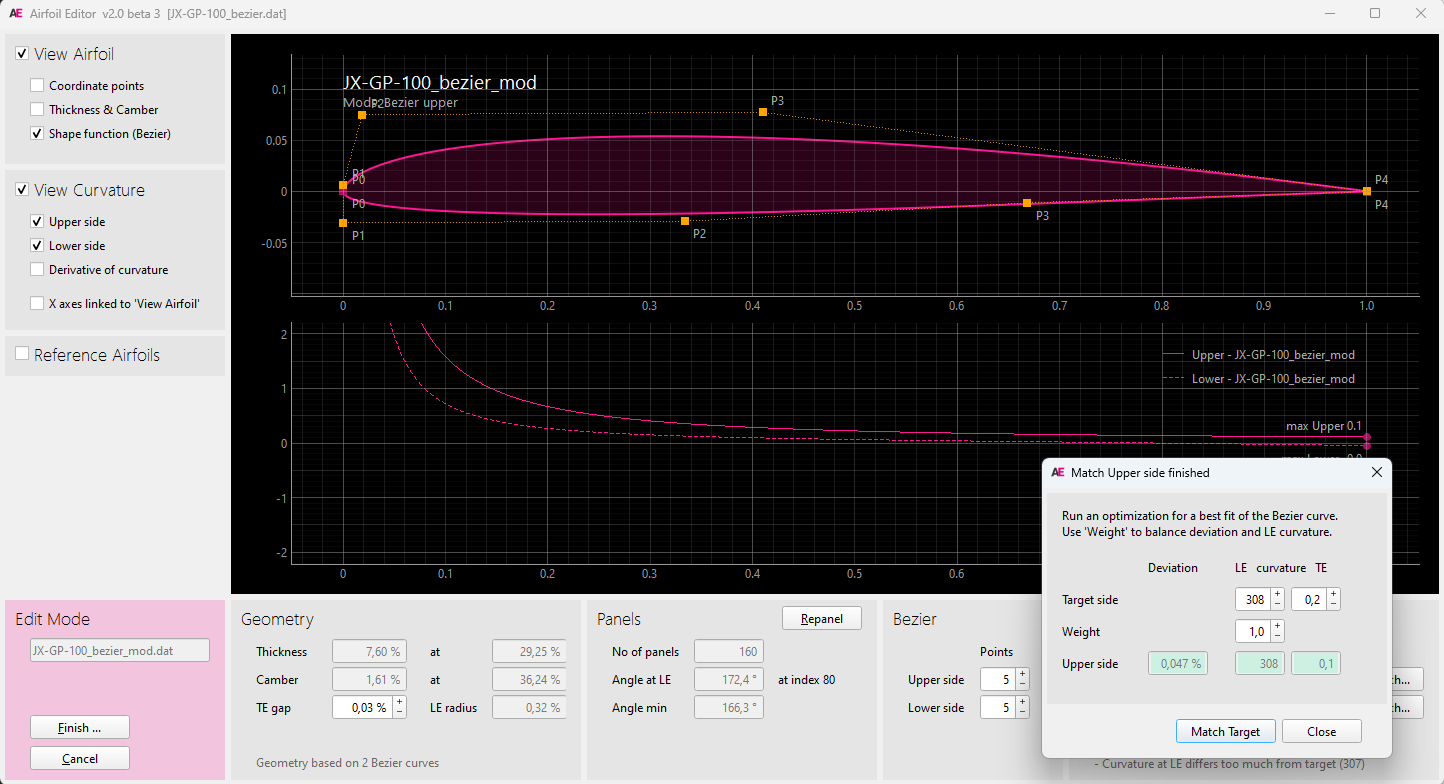
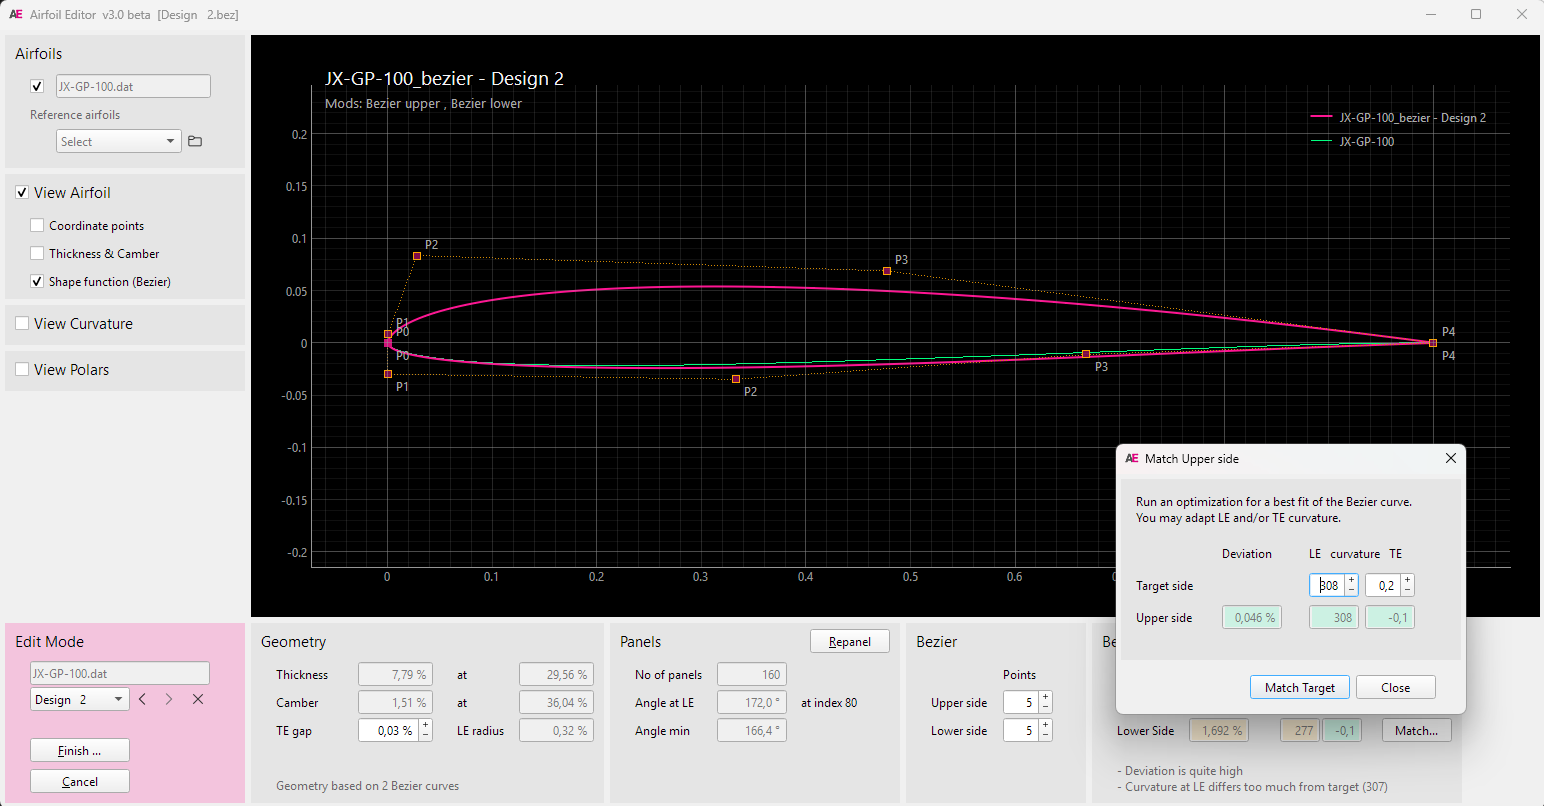
preparing v3.0

diff --git a/modules/model/xo2_driver.py b/modules/model/xo2_driver.py
@@ -11,6 +11,7 @@ the path to program location location must be set
 
 
 import os
+from tempfile       import NamedTemporaryFile
 from subprocess     import Popen, run, CREATE_NEW_CONSOLE, PIPE, STARTUPINFO, STARTF_USESHOWWINDOW, CREATE_NO_WINDOW
 from glob           import glob
 from io             import StringIO
@@ -36,7 +37,7 @@ SW_MINIMIZE = 6
 EXE_DIR_WIN    = 'assets/windows'                  # directory of exe files 
 EXE_DIR_UNIX   = 'assets/linux'                    
 
-TMP_INPUT_NAME = 'tmpInput'                         # temporary input file (~1 will be appended)
+TMP_INPUT_NAME = 'tmp~'                             # temporary input file (~1 will be appended)
 TMP_INPUT_EXT  = '.inp'
 
 #------- Helper function -----------------------------------------#
@@ -767,50 +768,43 @@ class Worker (X_Program):
         &xfoil_run_options
             ncrit = 7.0
         /
-        :return: filename of input file  """
+        :return: pathFilename of input file  """
+
+        tmpFilePath = None
 
         airfoilPath, airfoilFileName = os.path.split(airfoilPathFileName)
 
-        # find a tmp filename not used up to now 
+        # create tmp input file 
 
-        tmpFilePath = os.path.join (airfoilPath, TMP_INPUT_NAME + TMP_INPUT_EXT)
-        i = 0 
-        while os.path.isfile (tmpFilePath):                                 # find a non existing tmp name 
-            i += 1
-            tmpFilePath = os.path.join (airfoilPath, f"{TMP_INPUT_NAME}~{i}{TMP_INPUT_EXT}")
-    
-        stream = open(tmpFilePath, 'w+')
+        with NamedTemporaryFile(mode="w", delete=False, dir=airfoilPath, prefix=TMP_INPUT_NAME, suffix=TMP_INPUT_EXT) as tmp:
 
-        # generate tmp in dir of airfoil 
+            tmp.write ("&polar_generation\n")
+            tmp.write ("  type_of_polar = %d\n" % polarType)  
+            tmp.write ("  polar_reynolds  = %s\n" % (', '.join(str(e) for e in reNumbers))) 
+            if max(maNumbers) > 0.0: 
+                tmp.write ("  polar_mach  = %s\n" % (', '.join(str(e) for e in maNumbers))) 
+            if autoRange:
+                tmp.write ("  auto_range = .true.\n") 
+                if valRange[2]:                                 # write only increment
+                    tmp.write ("  op_point_range = , , %.2f \n" % (valRange[2])) 
+            else:
+                if spec_al:  tmp.write ("  op_mode = 'spec-al'\n") 
+                else:        tmp.write ("  op_mode = 'spec-cl'\n") 
+                tmp.write ("  op_point_range = %.2f , %.2f , %.2f \n" % (valRange[0], valRange[1], valRange[2])) 
+            tmp.write ("/\n")
 
-        stream.write ("&polar_generation\n")
-        stream.write ("  type_of_polar = %d\n" % polarType)  
-        stream.write ("  polar_reynolds  = %s\n" % (', '.join(str(e) for e in reNumbers))) 
-        if max(maNumbers) > 0.0: 
-            stream.write ("  polar_mach  = %s\n" % (', '.join(str(e) for e in maNumbers))) 
-        if autoRange:
-            stream.write ("  auto_range = .true.\n") 
-            if valRange[2]:                                 # write only increment
-                stream.write ("  op_point_range = , , %.2f \n" % (valRange[2])) 
-        else:
-            if spec_al:  stream.write ("  op_mode = 'spec-al'\n") 
-            else:        stream.write ("  op_mode = 'spec-cl'\n") 
-            stream.write ("  op_point_range = %.2f , %.2f , %.2f \n" % (valRange[0], valRange[1], valRange[2])) 
-        stream.write ("/\n")
+            tmp.write ("&xfoil_run_options\n")
+            tmp.write ("  ncrit = %.1f\n" % ncrit)  
+            tmp.write ("/\n")
 
-        stream.write ("&xfoil_run_options\n")
-        stream.write ("  ncrit = %.1f\n" % ncrit)  
-        stream.write ("/\n")
+            if nPoints is not None: 
+                tmp.write ("&paneling_options\n")
+                tmp.write (f"  npoint = {int(nPoints)}\n")  
+                tmp.write ("/\n")
 
-        if nPoints is not None: 
-            stream.write ("&paneling_options\n")
-            stream.write (f"  npoint = {int(nPoints)}\n")  
-            stream.write ("/\n")
+            tmpFilePath = tmp.name
 
-        stream.close()
-        tmpFile = tmpFilePath 
-
-        return tmpFile              
+        return tmpFilePath              
 
 
 

diff --git a/AirfoilEditor.py b/AirfoilEditor.py
@@ -87,6 +87,7 @@ class App_Main (QMainWindow):
     sig_airfoils_ref_changed    = pyqtSignal()          # list of reference airfoils changed
     sig_bezier_changed          = pyqtSignal(Line.Type) # new bezier during match bezier 
     sig_panelling_changed       = pyqtSignal()          # new panelling
+    sig_blend_changed           = pyqtSignal()          # new (intermediate) blend 
     sig_polar_set_changed       = pyqtSignal()          # new polar sets attached to airfoil
 
     sig_enter_panelling         = pyqtSignal()          # starting panelling dialog
@@ -183,6 +184,7 @@ class App_Main (QMainWindow):
         self.sig_airfoil_target_changed.connect (self._diagram.on_target_changed)
         self.sig_bezier_changed.connect         (self._diagram.on_bezier_changed)
         self.sig_panelling_changed.connect      (self._diagram.on_airfoil_changed)
+        self.sig_blend_changed.connect          (self._diagram.on_airfoil_changed)
         self.sig_polar_set_changed.connect      (self._diagram.on_polar_set_changed)
         self.sig_airfoils_ref_changed.connect   (self._diagram.on_airfoils_ref_changed)
 
@@ -465,7 +467,7 @@ class App_Main (QMainWindow):
 
         dialog = Blend_Airfoil (self, self.airfoil(), self.airfoil_org)  
 
-        dialog.sig_airfoil_changed.connect (self.sig_airfoil_changed.emit)
+        dialog.sig_blend_changed.connect (self.sig_blend_changed.emit)
         dialog.sig_airfoil2_changed.connect (self.set_airfoil_target)
         dialog.exec()     
 

diff --git a/modules/airfoil_dialogs.py b/modules/airfoil_dialogs.py
@@ -178,10 +178,8 @@ class Blend_Airfoil (Dialog):
 
     name = "Blend Airfoil with ..."
 
-    sig_airfoil_changed    = pyqtSignal ()
+    sig_blend_changed      = pyqtSignal ()
     sig_airfoil2_changed   = pyqtSignal (Airfoil)
-
-    # ---- static members for external use 
 
 
     def __init__ (self, parent : QWidget, 
@@ -248,7 +246,7 @@ class Blend_Airfoil (Dialog):
         if self._airfoil2 is not None: 
             self._airfoil.geo._blend(self._airfoil1.geo, self._airfoil2.geo, 
                                      self._blendBy, ensure_fast=True)
-            self.sig_airfoil_changed.emit()
+            self.sig_blend_changed.emit()
 
 
     @property
@@ -266,7 +264,7 @@ class Blend_Airfoil (Dialog):
         if aAirfoil is not None: 
             self._airfoil.geo._blend(self._airfoil1.geo, self._airfoil2.geo, 
                                      self._blendBy, ensure_fast=True)
-            self.sig_airfoil_changed.emit()
+            self.sig_blend_changed.emit()
 
 
     @override

diff --git a/README.md b/README.md
@@ -39,60 +39,36 @@ For thickness and camber geometry operations the airfoil (spline) is splitted in
 
 The same approach is applied to move the highpoint of the upper and lower side of the airfoil which makes it possible to optimize the upper and lower side independently of each other.
 
-<figure>
-  <img src="images/Modify.png" alt="my alt text"/>
-  <figcaption><sub>The 'Edit Mode' of the Airfoil Editor allowing to change the geometry either by value or by moving the mouse helper points. Each change creates a new 'Design' variant which allows to browse through the changes made in this session. </sub></figcaption>
-</figure>
 
 
 ![Modify](images/Modify.png "Screenshot of Modifying Airfoil")
-<sub>The 'Edit Mode' of the Airfoil Editor allowing to change the geometry either by value or by moving the mouse helper points. Each change creates a new 'Design' variant which allows to browse through the changes made in this session. </sub>
-</p>
+<sub>The 'Edit Mode' of the `AirfoilEditor` to change the geometry either by value or by moving the mouse helper points. Each change creates a new 'Design' variant which allows to browse through the changes made in this session. </sub>
+<br></br>
 
-Repaneling is based on a modified cosine distribution of the airfoil points on the arc of the spline. This differs from the xfoil approach but the repanel shows 'nice' behavior in aero calculation. 
+Repaneling is based on a modified cosine distribution of the airfoil points on the arc of the spline. The bunching of the coordinate points at leading and trailing edge can be adjusted. 
 
-As an example for the modification functionality of the app, the dialog for repaneling is shown:  
-
-![Repanel](images/Repanel.png "Screenshot of Repaneling within AirfoilEditor")
-<sup>Dialog for repaneling of an airfoil. Recommendations are given for 'healthy' panel angles.  </sup>
-</p>
+An airfoil may be 'blended' with another airfoil to create a new airfoil that has the genes of both airfoils.
 
 ### Curvature 
 
-On of the major views on an airfoil in the Airfoil Editor is the curvature of the airfoils surface. It allows a quick assessment of the surface quality and to detect artefacts like a 'spoiler' at the trailing edge which is quite common. 
+On of the major views on an airfoil in the `AirfoilEditor` is the curvature of the airfoils surface. It allows a quick assessment of the surface quality and to detect artefacts like a 'spoiler' at the trailing edge which is quite common. 
 
 
 ![Curvature](images/Curvature.png "Screenshot of Curvature")
+<sub>The additional 'Curvature View' on the airfoil indicating reversals of the curvature. </sub>
 
 > [!TIP]
 Have a look at the [documentation of Xoptfoil2](https://jxjo.github.io/Xoptfoil2/docs/geometry) with more information about an airfoils geometry.  
 
 
-## Bezier based airfoils 
+### Bezier based airfoils 
 
 Beside '.dat'-files the Airfoil Editor seamlessly displays '.bez'-Files defining an Bezier based airfoil. 
 
 ![Bezier](images/Bezier.png "Screenshot of Bezier curve definition")
 
-A '.bez'-file defines the x,y coordinates of the Bezier control points and looks like: 
-```
-JX-GT-15
-Top Start
- 0.0000000000  0.0000000000
- 0.0000000000  0.0120189628
- 0.0681109425  0.1240586151
- 0.6435307964  0.0748001854
- 1.0000000000  0.0000000000
-Top End
-Bottom Start
- 0.0000000000  0.0000000000
- 0.0000000000 -0.0222920000
- 0.3333333333 -0.0240468000
- 1.0000000000  0.0000000000
-Bottom End
-````
 
-A special feature is the definition of a (new) airfoil based on two Bezier curves for upper and lower side. The Bezier editor allows to move the control points of the curve by mouse.
+A special feature is the definition of a (new) airfoil based on two Bezier curves for upper and lower side. The  control points of the Bezier curve can be moved by mouse.
 
 The 'Match' function performs a best match of the Bezier curve to an existing airfoil. For this a simplex optimization (Nelder Mead) is performed to 
 - minimize the norm2 deviation between the Bezier curve and the target airfoil
@@ -101,8 +77,6 @@ The 'Match' function performs a best match of the Bezier curve to an existing ai
 
 
 ![AE](images/Match_Bezier.png "Screenshot of Bezier curve definition")
-
-
 
 <!---
 ## Hicks-Henne based airfoils 
@@ -116,10 +90,34 @@ The Airfoil Editor allows to visualize the Hicks-Henne functions which were appl
 <sup>Visualization of the Hicks-Henne bump functions, which were applied to the upper and lower side of the airfoil</sup>
 
 -->
+<br></br>
+
+## Airfoil Polars
+
+To generate the polars of an airfoil the `AirfoilEditor` uses the `Worker` tool of the [ Xoptfoil2](https://jxjo.github.io/Xoptfoil2) project. On of the `Worker` actions is the multi-threaded creation of a polar set using Xfoil.
+
+Within the app a polar is generated 'lazy' - meaning at the moment when the polar should be displayed - and asynchronous in a backround task. Each polar is stored in a single file having the Xfoil polar format. This approach allows to step through airfoils or the designs of an airfoil and present the polars without further user interaction.
+
+For polar generation the `auto_range` feature of the `Worker` is applied which optimizes the alpha range of the polar to show the complete T1 polar from cl_min to cl_max of the airfoil. For T2 polars (constant lift) the range starts right above cl=0.0 to cl_max.
+
+
+![Polars](images/Polars.png "Screenshot of Polar Generation")
+<sub>Polar view with the polar definitions and settings for the polar diagrams. The polars are generated in the background. </sub>
+
+### Airfoil Direct Design 
+
+The combination of the 'Edit Mode' and automated polar generation allows a playful approach to a 'Direct Design' of an airfoil based its geometry: Each modification, e.g. moving the camber highpoint or the control point of a Bezier curve, will generate a new design with its individual new polars. Stepping through the design polars creates an intuitive understanding how geometeric modifications influence the aerodynamic characteristics of an airfoil. 
+
+
+![Polars](images/Polars_direct_design.png "Direct Design with polar gneration")
+<sub>Direct Design with automated polar generation. The current design is compared with the reference airfoil MH31
+. </sub>
+
+
 
 ## Short Introduction 
 
-Have a look at this little video showing the main functionality of the AirfoilEditor:
+Have a look at this little video showing the main functionality of the AirfoilEditor v2:
 
 [![Watch the video](https://img.youtube.com/vi/gkgPbVkOAcU/maxresdefault.jpg)](https://youtu.be/gkgPbVkOAcU)
 
@@ -132,21 +130,21 @@ The `AirfoilEditor` is developed in  [Python](https://www.python.org/) using [Py
 The main building blocks of the App are
 * Model - containing all geometry and math helper routines of an airfoil. The model is independent of the UI. The different modules are kept in [modules/model](modules/model).
 
+*  `Worker` tool including Xfoil from the [ Xoptfoil2](https://jxjo.github.io/Xoptfoil2) project to generate airfoil polars.
+
 * UI-Framework - base classes and a little framework to ease the implementation of forms based on widgets and diagrams based on artists for the plot tasks. The base classes are in [modules/base](modules/base) 
 
 * Application - controller and view classes to handle presentation and user interaction - [modules/](modules/) 
 
-The airfoil model and the base classes also form the core of the other Apps of the family like `Planform Creator` and `Airfoil Optimizer` (to come). 
+The airfoil model and the base classes also form the core of other Apps like the [Planform Creator2](https://github.com/jxjo/PlanformCreator2) . 
 
 ##  Install
 
-A pre-build Windows-Exe of the app is available in the releases section https://github.com/jxjo/AirfoilEditor/releases  
+A pre-build Windows App including `Worker.exe`is available in the releases section https://github.com/jxjo/AirfoilEditor/releases  
 
 or 
 
-Download python sources from https://github.com/jxjo/AirfoilEditor/releases or Clone the repository 
-
-and Install 
+Download python sources from https://github.com/jxjo/AirfoilEditor/releases or clone the repository and install 
 
 ```
 pip3 install pyqt6
@@ -155,6 +153,8 @@ pip3 install pyqtgraph
 pip3 install termcolor
 
 ```
+
+Linux users who want to use polar generation have to compile `Worker.exe` in the [ Xoptfoil2 project](https://jxjo.github.io/Xoptfoil2) 
 
 > [!TIP]
  For Windows: Use the "Open with ..." Explorer command to connect the 'AirfoilEditor.exe' to file extension '.dat'. Later a double click on an airfoil .dat-file will open the AirfoilEditor and you can browse through the files in the directory (if you are using the Python version, create a little batch job to open the .dat file)  
